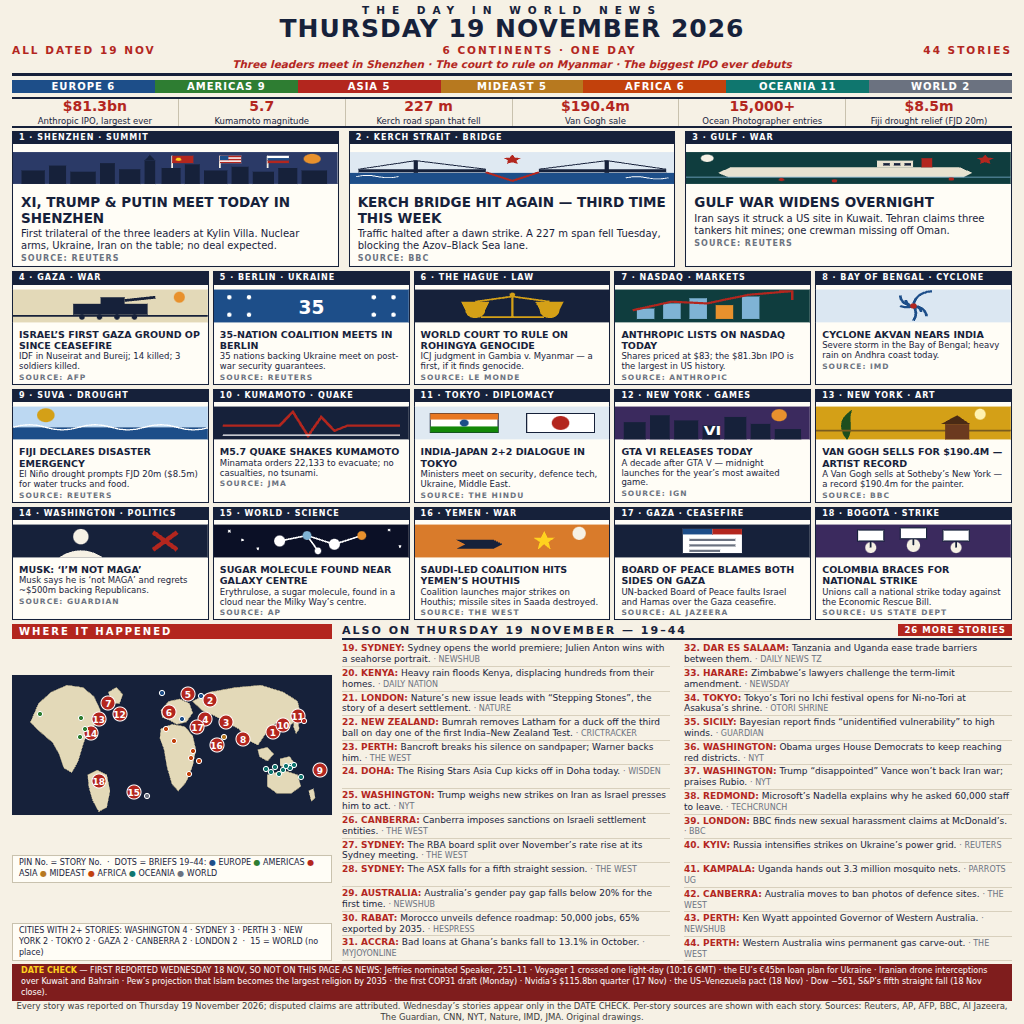
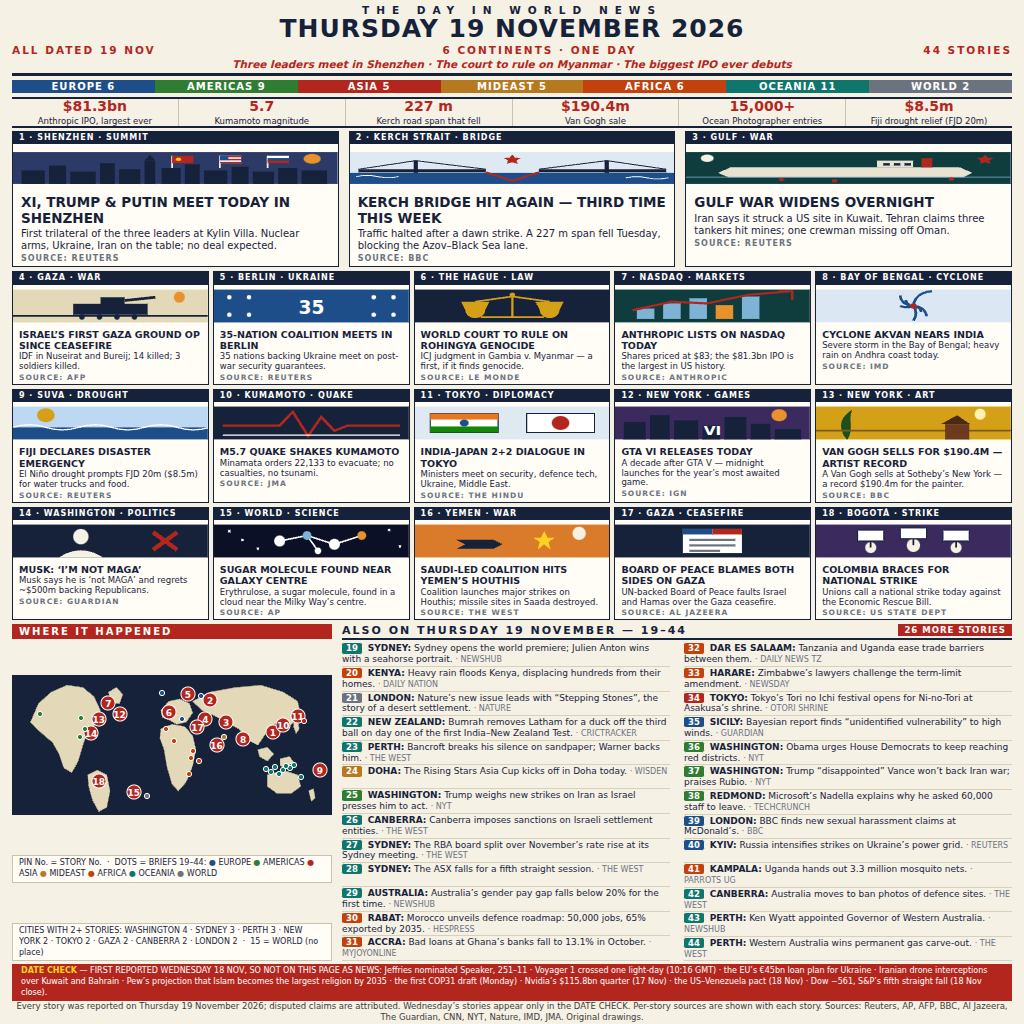
rev-5: chip nomor brief bewarna per wilayah, DATE CHECK merah terang, README/deskripsi 44-story

Changed region(s): [[0.0, 0.625, 1.0, 1.0]]

diff --git a/render.html b/render.html
@@ -40,14 +40,15 @@ h1.date { font-size:25px; line-height:1.05; letter-spacing:1px; font-weight:900;
 .briefs-head .tag { float:right; background:#b3261e; color:#fff; font-size:8.5px; letter-spacing:1px; padding:1px 6px; }
 .briefs { display:grid; grid-template-columns:1fr 1fr; gap:0 14px; margin-top:2px; }
 .brief { font-size:9px; line-height:1.2; min-height:24px; margin-bottom:0; padding:1px 0; border-bottom:0.5px solid #d8d0bd; }
-.brief b { color:#b3261e; }
+.brief .chip { display:inline-block; color:#fff; font-size:8.5px; font-weight:bold; line-height:1.2; padding:0 4px; border-radius:2px; margin-right:3px; }
+.brief b { color:#16213a; }
 .brief .src { font-size:8px; color:#6b7280; }
 .numbers { display:flex; margin-top:4px; border-top:2px solid #16213a; border-bottom:2px solid #16213a; }
 .num-cell { flex:1; text-align:center; padding:0 2px; }
 .num-cell + .num-cell { border-left:1px solid #c9c2ae; }
 .num-cell .v { font-size:14px; font-weight:900; color:#b3261e; line-height:1.1; }
 .num-cell .l { font-size:8.5px; line-height:1.2; margin-top:1px; }
-.datecheck { margin-top:3px; border:1.5px solid #7f1d1d; background:#7f1d1d; color:#fff; padding:1px 8px; font-size:8px; line-height:1.35; }
+.datecheck { margin-top:3px; border:1.5px solid #b3261e; background:#b3261e; color:#fff; padding:1px 8px; font-size:8px; line-height:1.35; }
 .datecheck b { color:#ffd21f; }
 .footer { font-size:8.5px; text-align:center; margin-top:0; line-height:1.35; color:#3a3a3a; }
 </style>
@@ -273,34 +274,34 @@ h1.date { font-size:25px; line-height:1.05; letter-spacing:1px; font-weight:900;
     <div class="briefs-head">ALSO ON THURSDAY 19 NOVEMBER &mdash; 19&ndash;44<span class="tag">26 MORE STORIES</span></div>
     <div class="briefs">
       <div>
-        <div class="brief"><b>19. SYDNEY:</b> Sydney opens the world premiere; Julien Anton wins with a seahorse portrait. <span class="src">&middot; NEWSHUB</span></div>
-        <div class="brief"><b>20. KENYA:</b> Heavy rain floods Kenya, displacing hundreds from their homes. <span class="src">&middot; DAILY NATION</span></div>
-        <div class="brief"><b>21. LONDON:</b> Nature&rsquo;s new issue leads with &ldquo;Stepping Stones&rdquo;, the story of a desert settlement. <span class="src">&middot; NATURE</span></div>
-        <div class="brief"><b>22. NEW ZEALAND:</b> Bumrah removes Latham for a duck off the third ball on day one of the first India&ndash;New Zealand Test. <span class="src">&middot; CRICTRACKER</span></div>
-        <div class="brief"><b>23. PERTH:</b> Bancroft breaks his silence on sandpaper; Warner backs him. <span class="src">&middot; THE WEST</span></div>
-        <div class="brief"><b>24. DOHA:</b> The Rising Stars Asia Cup kicks off in Doha today. <span class="src">&middot; WISDEN</span></div>
-        <div class="brief"><b>25. WASHINGTON:</b> Trump weighs new strikes on Iran as Israel presses him to act. <span class="src">&middot; NYT</span></div>
-        <div class="brief"><b>26. CANBERRA:</b> Canberra imposes sanctions on Israeli settlement entities. <span class="src">&middot; THE WEST</span></div>
-        <div class="brief"><b>27. SYDNEY:</b> The RBA board split over November&rsquo;s rate rise at its Sydney meeting. <span class="src">&middot; THE WEST</span></div>
-        <div class="brief"><b>28. SYDNEY:</b> The ASX falls for a fifth straight session. <span class="src">&middot; THE WEST</span></div>
-        <div class="brief"><b>29. AUSTRALIA:</b> Australia&rsquo;s gender pay gap falls below 20% for the first time. <span class="src">&middot; NEWSHUB</span></div>
-        <div class="brief"><b>30. RABAT:</b> Morocco unveils defence roadmap: 50,000 jobs, 65% exported by 2035. <span class="src">&middot; HESPRESS</span></div>
-        <div class="brief"><b>31. ACCRA:</b> Bad loans at Ghana&rsquo;s banks fall to 13.1% in October. <span class="src">&middot; MYJOYONLINE</span></div>
+        <div class="brief"><span class="chip" style="background:#0f766e">19</span> <b>SYDNEY:</b> Sydney opens the world premiere; Julien Anton wins with a seahorse portrait. <span class="src">&middot; NEWSHUB</span></div>
+        <div class="brief"><span class="chip" style="background:#c2410c">20</span> <b>KENYA:</b> Heavy rain floods Kenya, displacing hundreds from their homes. <span class="src">&middot; DAILY NATION</span></div>
+        <div class="brief"><span class="chip" style="background:#6b7280">21</span> <b>LONDON:</b> Nature&rsquo;s new issue leads with &ldquo;Stepping Stones&rdquo;, the story of a desert settlement. <span class="src">&middot; NATURE</span></div>
+        <div class="brief"><span class="chip" style="background:#0f766e">22</span> <b>NEW ZEALAND:</b> Bumrah removes Latham for a duck off the third ball on day one of the first India&ndash;New Zealand Test. <span class="src">&middot; CRICTRACKER</span></div>
+        <div class="brief"><span class="chip" style="background:#0f766e">23</span> <b>PERTH:</b> Bancroft breaks his silence on sandpaper; Warner backs him. <span class="src">&middot; THE WEST</span></div>
+        <div class="brief"><span class="chip" style="background:#b7791f">24</span> <b>DOHA:</b> The Rising Stars Asia Cup kicks off in Doha today. <span class="src">&middot; WISDEN</span></div>
+        <div class="brief"><span class="chip" style="background:#2e7d32">25</span> <b>WASHINGTON:</b> Trump weighs new strikes on Iran as Israel presses him to act. <span class="src">&middot; NYT</span></div>
+        <div class="brief"><span class="chip" style="background:#0f766e">26</span> <b>CANBERRA:</b> Canberra imposes sanctions on Israeli settlement entities. <span class="src">&middot; THE WEST</span></div>
+        <div class="brief"><span class="chip" style="background:#0f766e">27</span> <b>SYDNEY:</b> The RBA board split over November&rsquo;s rate rise at its Sydney meeting. <span class="src">&middot; THE WEST</span></div>
+        <div class="brief"><span class="chip" style="background:#0f766e">28</span> <b>SYDNEY:</b> The ASX falls for a fifth straight session. <span class="src">&middot; THE WEST</span></div>
+        <div class="brief"><span class="chip" style="background:#0f766e">29</span> <b>AUSTRALIA:</b> Australia&rsquo;s gender pay gap falls below 20% for the first time. <span class="src">&middot; NEWSHUB</span></div>
+        <div class="brief"><span class="chip" style="background:#c2410c">30</span> <b>RABAT:</b> Morocco unveils defence roadmap: 50,000 jobs, 65% exported by 2035. <span class="src">&middot; HESPRESS</span></div>
+        <div class="brief"><span class="chip" style="background:#c2410c">31</span> <b>ACCRA:</b> Bad loans at Ghana&rsquo;s banks fall to 13.1% in October. <span class="src">&middot; MYJOYONLINE</span></div>
       </div>
       <div>
-        <div class="brief"><b>32. DAR ES SALAAM:</b> Tanzania and Uganda ease trade barriers between them. <span class="src">&middot; DAILY NEWS TZ</span></div>
-        <div class="brief"><b>33. HARARE:</b> Zimbabwe&rsquo;s lawyers challenge the term-limit amendment. <span class="src">&middot; NEWSDAY</span></div>
-        <div class="brief"><b>34. TOKYO:</b> Tokyo&rsquo;s Tori no Ichi festival opens for Ni-no-Tori at Asakusa&rsquo;s shrine. <span class="src">&middot; OTORI SHRINE</span></div>
-        <div class="brief"><b>35. SICILY:</b> Bayesian report finds &ldquo;unidentified vulnerability&rdquo; to high winds. <span class="src">&middot; GUARDIAN</span></div>
-        <div class="brief"><b>36. WASHINGTON:</b> Obama urges House Democrats to keep reaching red districts. <span class="src">&middot; NYT</span></div>
-        <div class="brief"><b>37. WASHINGTON:</b> Trump &ldquo;disappointed&rdquo; Vance won&rsquo;t back Iran war; praises Rubio. <span class="src">&middot; NYT</span></div>
-        <div class="brief"><b>38. REDMOND:</b> Microsoft&rsquo;s Nadella explains why he asked 60,000 staff to leave. <span class="src">&middot; TECHCRUNCH</span></div>
-        <div class="brief"><b>39. LONDON:</b> BBC finds new sexual harassment claims at McDonald&rsquo;s. <span class="src">&middot; BBC</span></div>
-        <div class="brief"><b>40. KYIV:</b> Russia intensifies strikes on Ukraine&rsquo;s power grid. <span class="src">&middot; REUTERS</span></div>
-        <div class="brief"><b>41. KAMPALA:</b> Uganda hands out 3.3 million mosquito nets. <span class="src">&middot; PARROTS UG</span></div>
-        <div class="brief"><b>42. CANBERRA:</b> Australia moves to ban photos of defence sites. <span class="src">&middot; THE WEST</span></div>
-        <div class="brief"><b>43. PERTH:</b> Ken Wyatt appointed Governor of Western Australia. <span class="src">&middot; NEWSHUB</span></div>
-        <div class="brief"><b>44. PERTH:</b> Western Australia wins permanent gas carve-out. <span class="src">&middot; THE WEST</span></div>
+        <div class="brief"><span class="chip" style="background:#c2410c">32</span> <b>DAR ES SALAAM:</b> Tanzania and Uganda ease trade barriers between them. <span class="src">&middot; DAILY NEWS TZ</span></div>
+        <div class="brief"><span class="chip" style="background:#c2410c">33</span> <b>HARARE:</b> Zimbabwe&rsquo;s lawyers challenge the term-limit amendment. <span class="src">&middot; NEWSDAY</span></div>
+        <div class="brief"><span class="chip" style="background:#b3261e">34</span> <b>TOKYO:</b> Tokyo&rsquo;s Tori no Ichi festival opens for Ni-no-Tori at Asakusa&rsquo;s shrine. <span class="src">&middot; OTORI SHRINE</span></div>
+        <div class="brief"><span class="chip" style="background:#1d4e89">35</span> <b>SICILY:</b> Bayesian report finds &ldquo;unidentified vulnerability&rdquo; to high winds. <span class="src">&middot; GUARDIAN</span></div>
+        <div class="brief"><span class="chip" style="background:#2e7d32">36</span> <b>WASHINGTON:</b> Obama urges House Democrats to keep reaching red districts. <span class="src">&middot; NYT</span></div>
+        <div class="brief"><span class="chip" style="background:#2e7d32">37</span> <b>WASHINGTON:</b> Trump &ldquo;disappointed&rdquo; Vance won&rsquo;t back Iran war; praises Rubio. <span class="src">&middot; NYT</span></div>
+        <div class="brief"><span class="chip" style="background:#2e7d32">38</span> <b>REDMOND:</b> Microsoft&rsquo;s Nadella explains why he asked 60,000 staff to leave. <span class="src">&middot; TECHCRUNCH</span></div>
+        <div class="brief"><span class="chip" style="background:#1d4e89">39</span> <b>LONDON:</b> BBC finds new sexual harassment claims at McDonald&rsquo;s. <span class="src">&middot; BBC</span></div>
+        <div class="brief"><span class="chip" style="background:#1d4e89">40</span> <b>KYIV:</b> Russia intensifies strikes on Ukraine&rsquo;s power grid. <span class="src">&middot; REUTERS</span></div>
+        <div class="brief"><span class="chip" style="background:#c2410c">41</span> <b>KAMPALA:</b> Uganda hands out 3.3 million mosquito nets. <span class="src">&middot; PARROTS UG</span></div>
+        <div class="brief"><span class="chip" style="background:#0f766e">42</span> <b>CANBERRA:</b> Australia moves to ban photos of defence sites. <span class="src">&middot; THE WEST</span></div>
+        <div class="brief"><span class="chip" style="background:#0f766e">43</span> <b>PERTH:</b> Ken Wyatt appointed Governor of Western Australia. <span class="src">&middot; NEWSHUB</span></div>
+        <div class="brief"><span class="chip" style="background:#0f766e">44</span> <b>PERTH:</b> Western Australia wins permanent gas carve-out. <span class="src">&middot; THE WEST</span></div>
       </div>
     </div>
   </div>

diff --git a/README.md b/README.md
@@ -1,10 +1,10 @@
-# news-image-20261119 — "45-story data dashboard"
+# news-image-20261119 — "44-story data dashboard"
 
 [![make.fun](https://make.fun/badge/news-image-20261119.svg)](https://make.fun/bounty/news-image-20261119)
 [![rank](https://make.fun/badge/news-image-20261119/kavivenn-blip/news-image-20261119/rank.svg)](https://make.fun/bounty/news-image-20261119)
 [![reward](https://make.fun/badge/news-image-20261119/kavivenn-blip/news-image-20261119/reward.svg)](https://make.fun/bounty/news-image-20261119)
 
-One image that sums up the world's news of **Thursday 19 November 2026**, drawn as a 45-story data dashboard: masthead with the date in giant type, 3 lead stories, 10 featured stories, a numbered-pin world map, 32 one-line briefs, a BY THE NUMBERS strip, and a verification footer.
+One image that sums up the world's news of **Thursday 19 November 2026**, drawn as a 44-story data dashboard: masthead with the date in giant type, 3 lead stories, 15 featured stories, a numbered-pin world map, 26 two-line briefs, a BY THE NUMBERS strip, and a verification footer.
 
 ## How it works
 
@@ -24,6 +24,6 @@ mkdir -p out && MAKEFUN_OUTPUT_DIR=out python3 main.py
 - `main.py` — the entry program (stdlib only)
 - `entry.png` — the dashboard image
 - `render.html` — the page that was screenshotted to make `entry.png`
-- `RESEARCH.md` — the 45 verified stories, their sources, and the framing choices
+- `RESEARCH.md` — the 44 verified stories, their sources, and the framing choices
 
 Built for the [make.fun bounty "Sum up 19 November's world news in one image"](https://make.fun/bounty/news-image-20261119).
